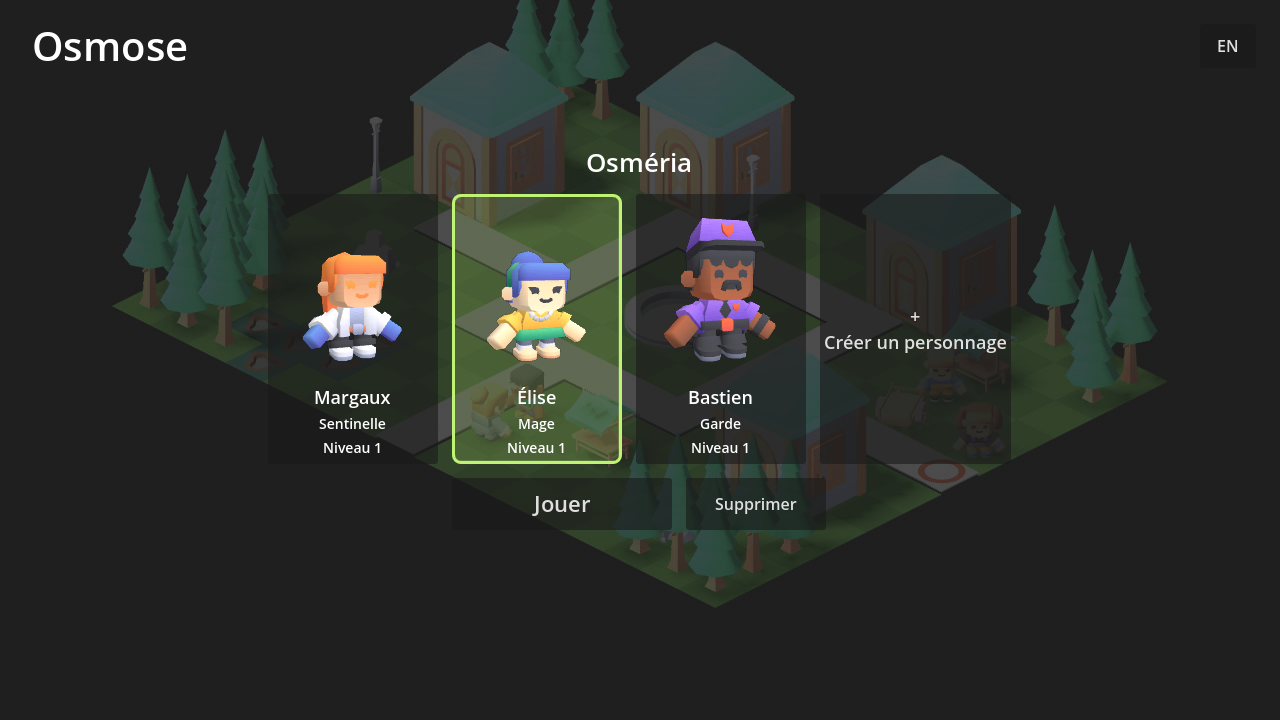
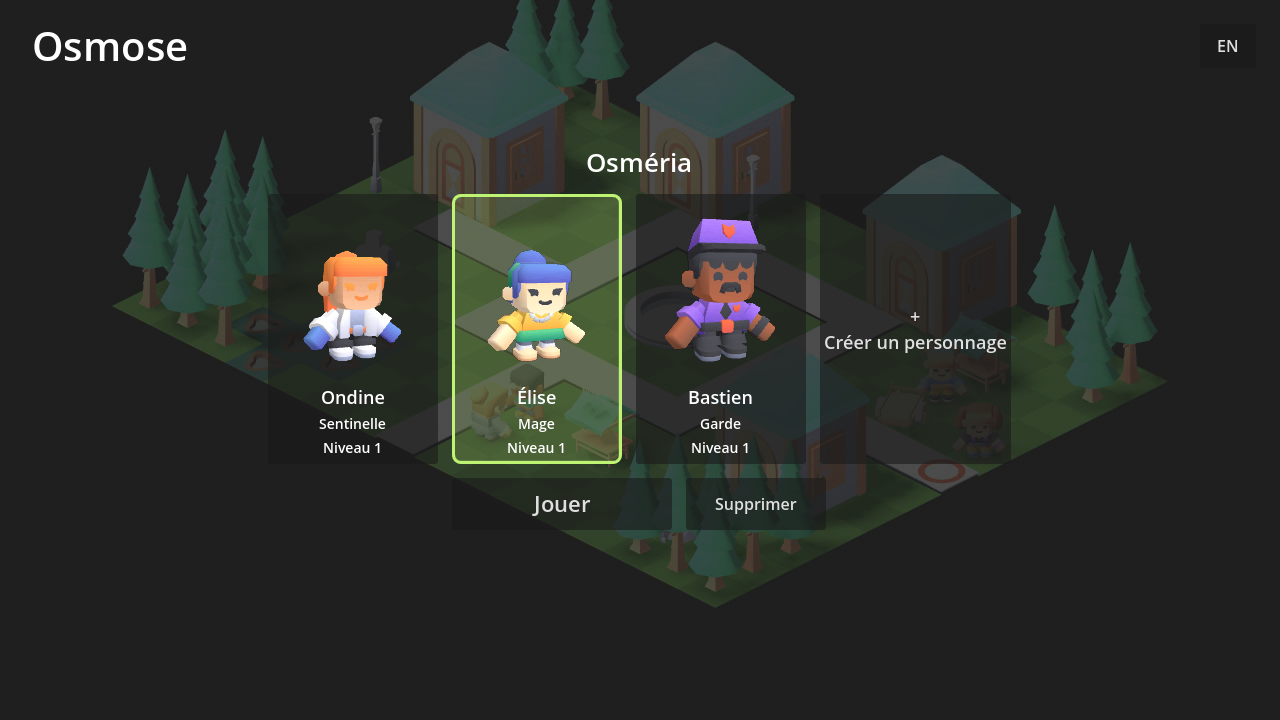
fix(rpg): Ondine instead of Margaux in the characters screen and the tests

diff --git a/tests/e2e/launcher.spec.js b/tests/e2e/launcher.spec.js
@@ -81,7 +81,7 @@ test('the launcher creates an account, then comes back to the sign-in form; Engl
   await expect(page.getByLabel('Remember the account name')).not.toBeChecked();
   await page.getByRole('button', { name: 'No account yet? Create one' }).click();
   await expect(page.getByLabel('Confirm the password')).toBeVisible();
-  await page.getByLabel('Account name', { exact: true }).fill('margaux');
+  await page.getByLabel('Account name', { exact: true }).fill('ondine');
   await page.getByLabel('Password', { exact: true }).fill('short');
   await page.getByRole('button', { name: 'Create the account' }).click();
   await expect(page.locator('#message')).toHaveText('A password has at least 10 characters.');
@@ -94,12 +94,12 @@ test('the launcher creates an account, then comes back to the sign-in form; Engl
   // Created: back to the sign-in form, the name kept, the game not started.
   await page.getByLabel('Confirm the password').fill('a long new password');
   await page.getByRole('button', { name: 'Create the account' }).click();
-  await expect(page.locator('#notice')).toHaveText('Account margaux created: sign in.');
+  await expect(page.locator('#notice')).toHaveText('Account ondine created: sign in.');
   await expect(page.getByLabel('Confirm the password')).toBeHidden();
-  await expect(page.getByLabel('Account name', { exact: true })).toHaveValue('margaux');
+  await expect(page.getByLabel('Account name', { exact: true })).toHaveValue('ondine');
   await expect(page.getByLabel('Password', { exact: true })).toHaveValue('');
   const created = await page.evaluate(() => window.calls.find(([c]) => c === 'create_account')[1]);
-  expect(created).toEqual({ name: 'margaux', password: 'a long new password' });
+  expect(created).toEqual({ name: 'ondine', password: 'a long new password' });
   expect(await commands(page)).not.toContain('play');
 
   // Then the usual sign-in starts the game.

diff --git a/projects/rpg/tests/Rpg.Core.Tests/HeroTests.cs b/projects/rpg/tests/Rpg.Core.Tests/HeroTests.cs
@@ -42,12 +42,12 @@ public class HeroTests
     [Fact]
     public void TheRecord_KeepsTheHero_AndRefusesAnInvalidOne()
     {
-        var f = new Fight(Real, "duel", 2, new Hero("Margaux", "female-a"));
+        var f = new Fight(Real, "duel", 2, new Hero("Ondine", "female-a"));
         Ai.PlayOut(f);
         FightRecord r = FightRecord.FromJson(FightRecord.Of(f).ToJson());
-        Assert.Equal(new Hero("Margaux", "female-a"), r.Hero);
-        Assert.Equal("Margaux", r.Replay(Real).Fighters[0].Name.Fr);
-        var cheat = r with { Hero = new Hero("Margaux", "orc") };
+        Assert.Equal(new Hero("Ondine", "female-a"), r.Hero);
+        Assert.Equal("Ondine", r.Replay(Real).Fighters[0].Name.Fr);
+        var cheat = r with { Hero = new Hero("Ondine", "orc") };
         Assert.Throws<InvalidFightRecordException>(() => cheat.Replay(Real));
         // Without a hero, nothing is written: the records of sprint 45 are unchanged.
         var plain = new Fight(Real, "duel", 2);
@@ -80,10 +80,10 @@ public class HeroTests
     [Fact]
     public void TheRecord_KeepsTheClassAndColour_AndReplaysTheSameFight()
     {
-        var f = new Fight(Real, "training", 8, new Hero("Margaux", "female-e", "guard", 5));
+        var f = new Fight(Real, "training", 8, new Hero("Ondine", "female-e", "guard", 5));
         Ai.PlayOut(f);
         FightRecord r = FightRecord.FromJson(FightRecord.Of(f).ToJson());
-        Assert.Equal(new Hero("Margaux", "female-e", "guard", 5), r.Hero);
+        Assert.Equal(new Hero("Ondine", "female-e", "guard", 5), r.Hero);
         Assert.Equal(Fingerprint(f), Fingerprint(r.Replay(Real)));
         // Another class does not accept the same actions: the axe is the guard's.
         Assert.Throws<InvalidFightRecordException>(() => (r with { Hero = r.Hero! with { Class = "mage" } }).Replay(Real));

diff --git a/projects/rpg/tests/Rpg.Api.Tests/CharacterTests.cs b/projects/rpg/tests/Rpg.Api.Tests/CharacterTests.cs
@@ -87,7 +87,7 @@ public class CharacterTests
     {
         await using var api = new ApiFactory();
         GameServer server = await api.SignedIn();
-        CharacterSummary c = await server.CreateCharacter("Margaux", "female-e", "sentinel", cancel: Cancel);
+        CharacterSummary c = await server.CreateCharacter("Ondine", "female-e", "sentinel", cancel: Cancel);
         var fight = new Fight(GameData.Embedded, "training", 11, (await server.Characters(Cancel)).Single().Hero);
         Ai.PlayOut(fight);
         Fight again = FightRecord.FromJson(FightRecord.Of(fight).ToJson()).Replay(GameData.Embedded);
@@ -118,7 +118,7 @@ public class CharacterTests
         // The insert of sprint 47, which did not know the columns.
         api.WithDb(db => db.Database.ExecuteSql($"""
             INSERT INTO characters ("Id", "AccountId", "Name", "NormalizedName", "Look", "CreatedAt")
-            VALUES ({Guid.NewGuid()}, {account}, 'Margaux', 'MARGAUX', 'female-e', now())
+            VALUES ({Guid.NewGuid()}, {account}, 'Ondine', 'ONDINE', 'female-e', now())
             """));
         CharacterSummary old = Assert.Single(await server.Characters(Cancel));
         Assert.Equal(("sentinel", 0, "osmeria", 1), (old.Class, old.Colour, old.Server, old.Level));

diff --git a/projects/rpg/launcher/core/tests/account.rs b/projects/rpg/launcher/core/tests/account.rs
@@ -186,22 +186,22 @@ fn signing_up_creates_the_account_then_the_player_signs_in() {
     let (url, _) = common::serve(BTreeMap::new());
     let dir = folder(&url);
     let secrets = Memory::default();
-    account::sign_up(dir.path(), "margaux", "a long new password").unwrap();
+    account::sign_up(dir.path(), "ondine", "a long new password").unwrap();
     // Signing up remembers nothing and signs nobody in: the form comes back.
     assert_eq!(account::remembered(dir.path(), &secrets), (None, false));
     assert_eq!(
         account::sign_in(
             dir.path(),
             &secrets,
-            &login("margaux", "a long new password", true, false)
+            &login("ondine", "a long new password", true, false)
         )
         .unwrap()
         .0,
-        "jwt.for.margaux"
+        "jwt.for.ondine"
     );
     assert_eq!(
         account::remembered(dir.path(), &secrets),
-        (Some("margaux".into()), false)
+        (Some("ondine".into()), false)
     );
     assert!(matches!(
         server::sign_up(&url, "taken", "a long new password").unwrap_err(),

diff --git a/projects/rpg/tests/Rpg.Api.Tests/ServerTests.cs b/projects/rpg/tests/Rpg.Api.Tests/ServerTests.cs
@@ -35,7 +35,7 @@ public class ServerTests
         };
         GameServer player = await api.SignedIn();
         Assert.Equal(["Osméria", "Brume"], (await player.Servers(Cancel)).Select(s => s.Name));
-        Assert.Equal("brume", (await player.CreateCharacter("Margaux", "female-e", "guard", server: "brume", cancel: Cancel)).Server);
+        Assert.Equal("brume", (await player.CreateCharacter("Ondine", "female-e", "guard", server: "brume", cancel: Cancel)).Server);
         var e = await Assert.ThrowsAsync<ServerException>(() => player.CreateCharacter("Elsa", "female-a", "guard", server: "atlantis", cancel: Cancel));
         Assert.Equal(HttpStatusCode.BadRequest, e.Status);
         Assert.Contains("server:", e.Message, StringComparison.Ordinal);

diff --git a/projects/rpg/godot/Main.cs b/projects/rpg/godot/Main.cs
@@ -532,7 +532,7 @@ public partial class Main : Node3D
     {
         LobbyView view = _lobbyView!;
         await _lobby!.SignIn("capture_" + Guid.NewGuid().ToString("N")[..8], "screenshot password", create: true);
-        foreach (Hero h in new[] { new Hero("Margaux", "female-e", "sentinel", 0, 3, 0, 0, 0), new Hero("Élise", "female-c", "mage", 4, 7, 1, -1, 0), new Hero("Bastien", "male-c", "guard", 2, 1, 4, 2, 2) })
+        foreach (Hero h in new[] { new Hero("Ondine", "female-e", "sentinel", 0, 3, 0, 0, 0), new Hero("Élise", "female-c", "mage", 4, 7, 1, -1, 0), new Hero("Bastien", "male-c", "guard", 2, 1, 4, 2, 2) })
         {
             view.OpenCreate();
             view.CharacterField.Text = h.Name;

diff --git a/projects/rpg/tests/Rpg.Client.Tests/LobbyTests.cs b/projects/rpg/tests/Rpg.Client.Tests/LobbyTests.cs
@@ -127,7 +127,7 @@ public partial class LobbyTests
         await two.SignIn("ada", "correct horse battery", create: false, Cancel);
         Assert.Null(two.ChosenServer);
         Assert.Empty(two.Here);
-        Assert.False(await two.Create("Margaux", "female-e", "sentinel", cancel: Cancel));
+        Assert.False(await two.Create("Ondine", "female-e", "sentinel", cancel: Cancel));
         Assert.Equal("lobby.choose-server", two.Problem);
         two.ChooseServer("brume");
         Assert.Equal("Jean-Luc", Assert.Single(two.Here).Name);

diff --git a/projects/rpg/REVIEW.md b/projects/rpg/REVIEW.md
@@ -83,4 +83,5 @@ Claude y ajoute aussi ses constats au fil de l'eau, préfixés « (Claude) » ; 
 | 2026-10-09 | `src/Rpg.Core/Fight.cs` | (Claude) Trouvé en cassant le code : rien ne vérifiait qu'une poussée s'arrête contre un autre combattant (le test l'annonçait sans le faire), ni le plafond de résistance à 90 % | Deux tests ajoutés, les deux mutations attrapées |
 | 2026-10-09 | `src/Rpg.Core/Ai.cs` | (Claude) Vu en écrivant le test de rejeu : l'IA ne visait que des cases occupées, alors qu'une invocation demande une case libre, et comptait son intérêt par combattant de la zone (zéro sur une case vide) : elle n'invoquait jamais | Cases libres voisines essayées pour les invocations, intérêt compté une fois par lancer |
 | 2026-10-09 | `src/Rpg.Core/Fight.cs` | (Claude) Mutation survivante : « une équipe sans plus que des invocations a perdu » ne servait à rien, les invocations mourant avec leur invocateur | Condition retirée, commentaire corrigé |
+| 2026-10-09 | `godot/Main.cs` (`--shot lobby`), tests | Signalé par Charles : « Margaux » sur la capture de l'écran des personnages ; ne pas utiliser les prénoms Margaux et Camille | (Claude) Remplacé par « Ondine » partout (capture, texte alternatif, tests C#, Rust et Playwright), captures fr et en refaites ; aucune « Camille » dans le dépôt |
 | | | | |
